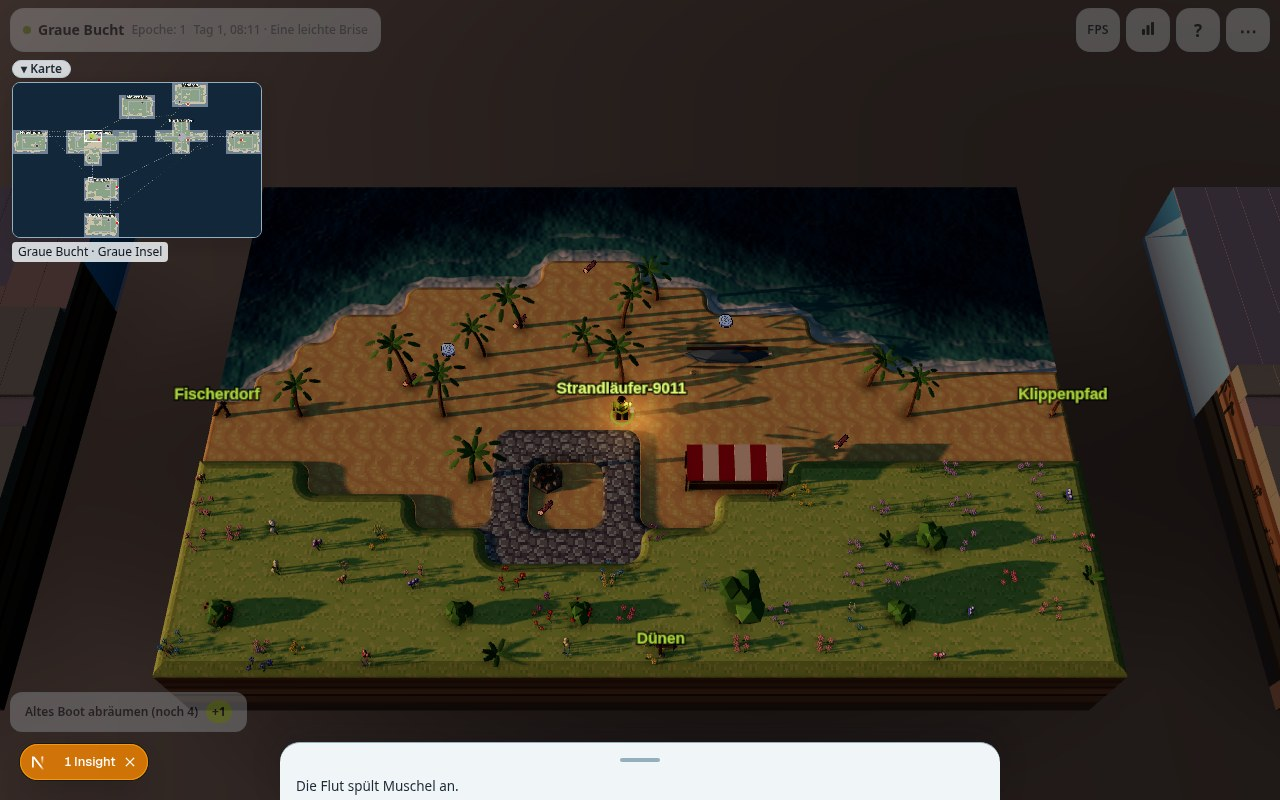
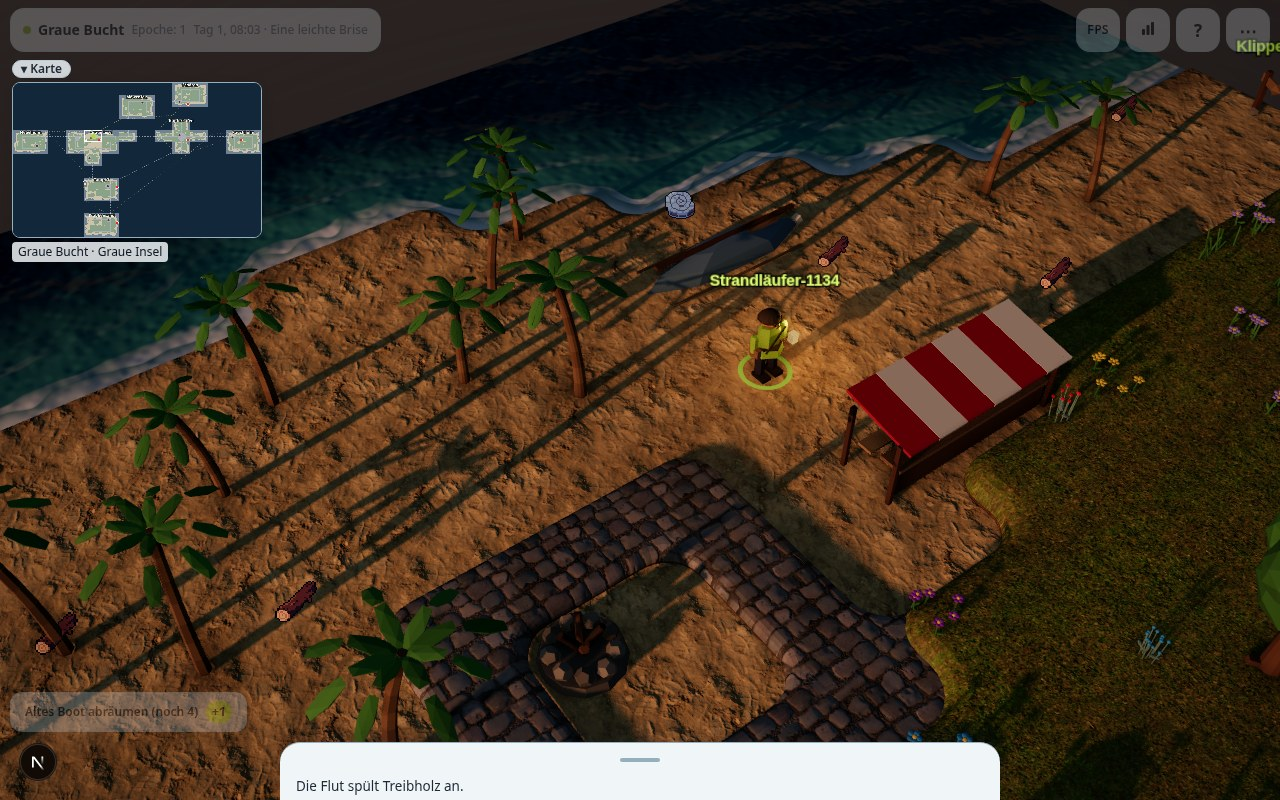
spaces-mmo, 3D view version 3, the ground (phase 3, docs/3D-V3/README.md): the terraces of sand, grass, paving, a building's floor and walls carry photographed surfaces (colour, normals, occlusion with roughness) instead of the tile art (client/ground3d.ts); the wall under a terrace's edge is rock t

diff --git a/spaces-mmo/client/ground3d.ts b/spaces-mmo/client/ground3d.ts
@@ -1,0 +1,96 @@
+// The ground's materials in the 3D view (3D v3, docs/3D-V3/README.md): instead of the tile art, photographed surfaces
+// (colour, normals, and occlusion with roughness: public/materials/<name>/, CC0, worlds/leuchtfeuer/assets/CREDITS.md)
+// on the terraces of each tile kind. Sand is wet and dark where the water is near, and every surface varies a little
+// over the room so the repeat of its picture does not show. A tile kind without a material here keeps the tile art, and
+// until the pictures have loaded (or where the page is served without them) a surface shows its plain colour.
+// Visual only.
+import { SHORE_REACH, shoreTexture } from "./water3d.ts";
+import type { TerraceLook } from "./terraces3d.ts";
+
+type T = typeof import("three");
+type Texture = import("three").Texture;
+
+/** The material of each tile kind: its folder, how many cells one picture covers, a tint (and a gain on it, where the
+ *  photograph is darker than the game's ground), and whether it gets wet near the water. */
+type Spec = { name: string; cells: number; tint: number; gain?: number; wet?: boolean };
+export const GROUND: Record<string, Spec> = {
+	".": { name: "sand", cells: 2, tint: 0xfff4de, gain: 1.3, wet: true },
+	",": { name: "grass", cells: 2.5, tint: 0xd0f59a, gain: 1.15 },
+	":": { name: "paving", cells: 2, tint: 0xe6e8ee },
+	"_": { name: "planks", cells: 2, tint: 0xf2dcc0 },
+	"#": { name: "plaster", cells: 1.5, tint: 0xf4ecda },
+};
+/** The earth of a terrace's wall, below the rounded edge. */
+const EARTH: Spec = { name: "rock", cells: 2, tint: 0xb89a78 };
+
+type Maps = { color: Texture; normal: Texture; arm: Texture };
+const loading = new Map<string, Promise<Maps | null>>();
+/** The three pictures of a material, loaded once and shared between rooms; null where they are not served. */
+function maps(t: T, name: string, cells: number, anisotropy: number): Promise<Maps | null> {
+	const id = `${name}@${cells}`;
+	let p = loading.get(id);
+	if (!p) {
+		const loader = new t.TextureLoader();
+		const one = (file: string, srgb: boolean) => loader.loadAsync(`/materials/${name}/${file}.jpg`).then((texture) => {
+			texture.wrapS = texture.wrapT = t.RepeatWrapping; texture.repeat.set(1 / cells, 1 / cells); texture.anisotropy = anisotropy;
+			if (srgb) texture.colorSpace = t.SRGBColorSpace;
+			texture.userData.shared = true;
+			return texture;
+		});
+		p = Promise.all([one("color", true), one("normal", false), one("arm", false)]).then(([color, normal, arm]) => ({ color, normal, arm }), () => null);
+		loading.set(id, p);
+	}
+	return p;
+}
+
+const HEAD = /* glsl */ `
+uniform sampler2D uWet;
+uniform vec2 uRoom;
+varying vec3 vGroundPos;
+float groundHash( vec2 p ) { vec3 q = fract( vec3( p.xyx ) * 0.1031 ); q += dot( q, q.yzx + 33.33 ); return fract( ( q.x + q.y ) * q.z ); }
+float groundNoise( vec2 p ) {
+	vec2 i = floor( p ), f = fract( p ), u = f * f * ( 3.0 - 2.0 * f );
+	return mix( mix( groundHash( i ), groundHash( i + vec2( 1.0, 0.0 ) ), u.x ), mix( groundHash( i + vec2( 0.0, 1.0 ) ), groundHash( i + vec2( 1.0, 1.0 ) ), u.x ), u.y );
+}`;
+const COLOUR = (wet: boolean) => /* glsl */ `
+	diffuseColor.rgb *= 0.86 + 0.28 * ( 0.6 * groundNoise( vGroundPos.xz * 0.37 ) + 0.4 * groundNoise( vGroundPos.xz * 1.3 + 7.0 ) );
+	float groundWet = ${wet ? `smoothstep( 1.3, 0.55, texture2D( uWet, vGroundPos.xz / uRoom + 0.5 ).r * ${SHORE_REACH.toFixed(1)} + ( groundNoise( vGroundPos.xz * 2.4 ) - 0.5 ) * 0.35 )` : "0.0"};
+	diffuseColor.rgb *= mix( 1.0, 0.58, groundWet );`;
+
+/** The looks of a room's tile kinds: `look(key, plain)` gives a kind's three materials (top, rounded edge, wall), or
+ *  null for a kind without a material here. `plain` is the colour it shows until its pictures are there. The looks own
+ *  one small texture (how near the water is); `dispose` on any of the materials' userData frees it. */
+export function groundLooks(t: T, ground: readonly string[], water: (key: string) => boolean, anisotropy: number): (key: string, plain: number) => TerraceLook | null {
+	const h = ground.length, w = ground[0]?.length ?? 0;
+	// for every land cell how far the water is: the water's own shore texture with land and water swapped
+	const near = shoreTexture(t, ground, (key) => !water(key));
+	const uniforms = { uWet: { value: near }, uRoom: { value: new t.Vector2(Math.max(1, w), Math.max(1, h)) } };
+	const make = (spec: Spec, plain: number, shade: number) => {
+		const material = new t.MeshStandardMaterial({ color: new t.Color(plain).multiplyScalar(shade), roughness: 0.95, metalness: 0 });
+		const wet = !!spec.wet;
+		material.onBeforeCompile = (shader) => {
+			Object.assign(shader.uniforms, uniforms);
+			shader.vertexShader = shader.vertexShader.replace("#include <common>", "#include <common>\nvarying vec3 vGroundPos;")
+				.replace("#include <begin_vertex>", "#include <begin_vertex>\n\tvGroundPos = ( modelMatrix * vec4( transformed, 1.0 ) ).xyz;");
+			shader.fragmentShader = shader.fragmentShader.replace("#include <common>", `#include <common>\n${HEAD}`)
+				.replace("#include <color_fragment>", `#include <color_fragment>\n${COLOUR(wet)}`)
+				.replace("#include <roughnessmap_fragment>", "#include <roughnessmap_fragment>\n\troughnessFactor = mix( roughnessFactor, 0.28, groundWet );");
+		};
+		material.customProgramCacheKey = () => `ground3d:${wet}`;
+		material.userData.dispose = () => near.dispose();
+		void maps(t, spec.name, spec.cells, anisotropy).then((m) => {
+			if (!m) return;
+			material.map = m.color; material.normalMap = m.normal; material.roughnessMap = m.arm; material.aoMap = m.arm;
+			material.roughness = 1; material.color.setHex(spec.tint).multiplyScalar(shade * (spec.gain ?? 1)); material.needsUpdate = true;
+		});
+		return material;
+	};
+	const made = new Map<string, TerraceLook>(), wall = make(EARTH, 0x6b5236, 1);
+	return (key, plain) => {
+		const spec = GROUND[key];
+		if (!spec) return null;
+		let look = made.get(key);
+		if (!look) { look = { top: make(spec, plain, 1), flank: make(spec, plain, 0.88), wall }; made.set(key, look); }
+		return look;
+	};
+}

diff --git a/spaces-mmo/client/MapView3D.tsx b/spaces-mmo/client/MapView3D.tsx
@@ -18,6 +18,7 @@ import { railPoints, sleeperSpots, stepsAt } from "./trackShape.ts";
 import { closeBlur, frameSummary } from "./closeup3d.ts";
 import { POST } from "./post3d.ts";
 import { setWaterTime, waterMaterial } from "./water3d.ts";
+import { GROUND, groundLooks } from "./ground3d.ts";
 import { START_VIEW } from "./viewPreferences.ts";
 import { atModelLevel, updateModelDetails, type ModelLevel } from "./modelDetail3d.ts";
 import { stableHash, tile3d } from "./terrain3d.ts";
@@ -289,8 +290,11 @@ function buildTerrain(s: Scene3D, looks: Map<string, TileLook>): import("three")
 	const group = new t.Group(); group.userData.owned = true;
 	const kind = (key: string) => tile3d(key, !!world.tiles[key]?.walk);
 	const earth = new t.MeshStandardMaterial({ color: 0x6b5236, roughness: 1 });
+	// photographed surfaces where the kind has one (ground3d.ts), else the tile art as before
+	const pbr = groundLooks(t, room.ground, (key) => kind(key).water, s.renderer.capabilities.getMaxAnisotropy());
 	const lookOf = (key: string): TerraceLook => {
-		const visual = kind(key), look = looks.get(key);
+		const visual = kind(key), look = looks.get(key), real = pbr(key, visual.color);
+		if (real) return real;
 		const top = new t.MeshStandardMaterial({ color: look ? 0xffffff : visual.color, map: look?.frames[0] ?? null, roughness: 0.95 });
 		// the rounded edge carries the tile art on, a little darker as it turns away from the sky
 		const flank = new t.MeshStandardMaterial({ color: look ? 0xd4d4d4 : new t.Color(visual.color).multiplyScalar(0.85), map: look?.frames[0] ?? null, roughness: 0.95 });
@@ -447,6 +451,8 @@ function lantern(s: Scene3D, e: Entry, time: number): void {
 
 function pavingDetail(s: Scene3D): void {
 	if (!s.ground) return;
+	// the photographed paving (ground3d.ts) has its stones in its own picture and normals: no stones of geometry on it
+	if (GROUND[":"]) { if (s.paving) s.paving.visible = false; return; }
 	if (s.zoom < 2) { if (s.paving) s.paving.visible = false; return; }
 	// every paved cell of the room (at most a few hundred: one instanced mesh), built once per room and ground; before,
 	// only the cells round the middle of the view had stones and the rest of the paving stayed smooth

diff --git a/spaces-mmo/client/water3d.ts b/spaces-mmo/client/water3d.ts
@@ -66,13 +66,19 @@ const NORMAL = /* glsl */ `
 		normal = normalize( ( viewMatrix * vec4( up, 0.0 ) ).xyz );
 	}`;
 
+/** `shoreDistances` as a texture, one texel a cell: 0 where `water` says no, 1 at SHORE_REACH cells from there. */
+export function shoreTexture(t: T, ground: readonly string[], water: (key: string) => boolean): import("three").DataTexture {
+	const h = ground.length, w = ground[0]?.length ?? 0, distances = shoreDistances(ground, water), data = new Uint8Array(w * h);
+	for (let i = 0; i < data.length; i++) data[i] = Math.round((distances[i]! / SHORE_REACH) * 255);
+	const texture = new t.DataTexture(data, Math.max(1, w), Math.max(1, h), t.RedFormat, t.UnsignedByteType);
+	texture.magFilter = texture.minFilter = t.LinearFilter; texture.needsUpdate = true;
+	return texture;
+}
+
 /** The material of a room's water surface (a face that looks up): `ground` gives the shore. It owns a small texture;
  *  `material.userData.dispose` frees it. */
 export function waterMaterial(t: T, ground: readonly string[], water: (key: string) => boolean): import("three").MeshStandardMaterial {
-	const h = ground.length, w = ground[0]?.length ?? 0, distances = shoreDistances(ground, water), data = new Uint8Array(w * h);
-	for (let i = 0; i < data.length; i++) data[i] = Math.round((distances[i]! / SHORE_REACH) * 255);
-	const shore = new t.DataTexture(data, w, h, t.RedFormat, t.UnsignedByteType);
-	shore.magFilter = shore.minFilter = t.LinearFilter; shore.needsUpdate = true;
+	const h = ground.length, w = ground[0]?.length ?? 0, shore = shoreTexture(t, ground, water);
 	const material = new t.MeshStandardMaterial({ color: 0xffffff, roughness: 0.07, metalness: 0, envMapIntensity: 1.25 });
 	const uniforms = { uWaterTime: time, uShore: { value: shore }, uRoom: { value: new t.Vector2(w, h) }, uShallow: { value: new t.Color(0x4f9a94) }, uDeep: { value: new t.Color(0x0d3350) } };
 	material.onBeforeCompile = (shader) => {

diff --git a/spaces-mmo/tests/terrain3d.test.ts b/spaces-mmo/tests/terrain3d.test.ts
@@ -109,6 +109,22 @@ test("the water knows how far the shore is: 0 on land, a cell more with every st
 	assert.deepEqual([...shoreDistances([], water)], []);
 });
 
+test("every ground material of the 3D view has its three pictures and its line in the credits", async () => {
+	const { existsSync, readFileSync, statSync } = await import("node:fs");
+	const { GROUND } = await import("../client/ground3d.ts");
+	const root = new URL("../", import.meta.url).pathname, credits = readFileSync(`${root}worlds/leuchtfeuer/assets/CREDITS.md`, "utf8");
+	const names = new Set([...Object.values(GROUND).map((g) => g.name), "rock"]);
+	assert.deepEqual(Object.keys(GROUND).sort(), ["#", ",", ".", ":", "_"].sort());
+	for (const name of names) {
+		for (const file of ["color", "normal", "arm"]) {
+			const path = `${root}public/materials/${name}/${file}.jpg`;
+			assert.ok(existsSync(path), `${path} is missing`);
+			assert.ok(statSync(path).size < 700_000, `${path} is larger than 700 kB`);
+		}
+		assert.ok(credits.includes(`\`public/materials/${name}/\``), `no credit for ${name}`);
+	}
+});
+
 test("near barrel geometry is cached separately, with more detail and the same footprint", async () => {
 	const t = await import("three"), { barrel } = await import("../client/props3d.ts");
 	const far = barrel(t), near = barrel(t, true);

diff --git a/spaces-mmo/client/App.tsx b/spaces-mmo/client/App.tsx
@@ -194,7 +194,7 @@ function About() {
 		<p className="about muted">
 			Eine Welt auf <a href="https://spaces.eibrain.org" target="_blank" rel="noreferrer">phi-spaces</a>. Grafiken: Intersect-Assets von
 			PixelFox, Zetasis, George und Murdoc, CC BY 4.0; Gegenstände: Shikashi's Fantasy Icons von Matt Firth (shikashipx) nach
-			game-icons.net, CC BY 4.0, und 7Soul1, CC0 (<a href="/assets/leuchtfeuer/CREDITS.md" target="_blank" rel="noreferrer">Nachweise</a>).
+			game-icons.net, CC BY 4.0, und 7Soul1, CC0; Oberflächen der 3D-Ansicht: Poly Haven, CC0 (<a href="/assets/leuchtfeuer/CREDITS.md" target="_blank" rel="noreferrer">Nachweise</a>).
 		</p>
 	);
 }

diff --git a/spaces-mmo/docs/3D-V3/README.md b/spaces-mmo/docs/3D-V3/README.md
@@ -13,7 +13,8 @@ everything here is the client's view of the same room data: the grid, walkabilit
 - **Assets.** Textures and skies from CC0 libraries; buildings and figures as one consistent set. Licences go into the
   world's `assets/CREDITS.md`.
 - **One quality level.** No reduced tier for phones; the 2D map stays the fallback for a device without WebGL 2.
-- **Download size.** A budget per room, loaded per room (to be set in phase 2).
+- **Download size.** A budget per room, loaded per room (to be set in phase 2). The ground's six surfaces are 4.8 MB together, loaded once.
+- **Models.** Built in this project (the user's decision, 2026-11-18), not bought or commissioned.
 
 ## Phases
 
@@ -21,7 +22,7 @@ everything here is the client's view of the same room data: the grid, walkabilit
 | --- | --- | --- |
 | 1 Light and picture | sky and sun from the world's clock, the sky's light as an environment map, a filmic tone curve, shadows that turn with the sun, ambient occlusion, bloom, the close-up blur as a pass | done, except rain and wet surfaces |
 | 2 Asset pipeline | glTF models with Meshopt, KTX2 textures, a catalogue from today's builder keys to model files with three levels of detail, the procedural builder as the fallback | open |
-| 3 Terrain and water | a smoothed height field instead of hard terraces, PBR ground materials blended at the seams, rock on the block's sides; the water's surface | water done, the rest open |
+| 3 Terrain and water | a smoothed height field instead of hard terraces, PBR ground materials blended at the seams, rock on the block's sides; the water's surface | water and ground materials done; the height field and the block's sides open |
 | 4 Vegetation | tree and bush models with leaf cards, wind, translucent leaves, instanced grass, crops per stage | open |
 | 5 Buildings and things | models in the order hut, site, ruin, later epochs, scenery; a small shared set of materials; lit interiors | open |
 | 6 Figures and animals | rigged figures with skeletal animation, the chosen look (`shared/appearance.ts`) as parts and colour masks | open |
@@ -59,8 +60,23 @@ distance to the nearest land (a chamfer distance, at most 4 cells), kept as a sm
 a shallow and a deep colour by it, puts a ragged band of foam at the land and lines of foam that run in, moves its
 normal with a few sine waves and noise, and mirrors the sky.
 
+**Ground (`client/ground3d.ts`, `public/materials/`).** The terraces of sand, grass, paving, a building's floor and its
+walls carry photographed surfaces (colour, normals, and occlusion with roughness; Poly Haven, CC0, credited in
+`worlds/leuchtfeuer/assets/CREDITS.md`) instead of the tile art; the wall under a terrace's edge is rock tinted as earth.
+One picture covers 1.5 to 2.5 cells, and a slow noise over the room varies its brightness so the repeat does not show.
+Sand within about a cell of the water is dark and smooth (the water's shore texture with land and water swapped). A
+tile kind without a surface keeps the tile art; until the pictures are loaded, or where the page is served without them
+(`SPACES_MMO_NO_NEXT`), a surface shows its plain colour. The close-up's cobbles of geometry (v2) are off on
+photographed paving. The pictures are served by the page (`/materials/…`), not by the world's asset route, which serves
+PNG only.
+
 Dev probes on the canvas (not in a production build): `probeHour(hour)`, `probeFog(level)`, `probeLight()`,
 `probeTune(light, post)`.
+
+## Open in phase 3
+
+- The smoothed height field: the ground still stands on v2's rounded terraces.
+- Rock on the block's sides (they keep the strata bands).
 
 ## Open in phase 1
 

diff --git a/spaces-mmo/docs/architektur.en.md b/spaces-mmo/docs/architektur.en.md
@@ -294,7 +294,7 @@ instanced tile cuboids on their block, the low-poly models below, name billboard
 shader, measured phone budgets (frame times on a real phone) and WFC-generated rooms are not yet an implemented 3D
 acceptance.
 
-**Light, picture and water (v3, `docs/3D-V3/README.md`, from 2026-11-18):** the sky is a physical one whose sun and moon cross it with the world's clock (`skyAt`, `shadowLightAt` in `camera3d.ts`, `client/atmosphere3d.ts`), its light reaches every surface as an environment map, the shadow map is 4096² on every device, the picture passes ambient occlusion, bloom and a filmic tone curve at every zoom (`client/post3d.ts`), and the water is a surface with ripples, depth colour and foam at the shore instead of the tile art (`client/water3d.ts`). Where the v2 text below says otherwise (the dusk gradient, the shadow map's size, the hemisphere light, water from autotile frames, postprocessing only close up), v3 holds.
+**Light, picture and water (v3, `docs/3D-V3/README.md`, from 2026-11-18):** the sky is a physical one whose sun and moon cross it with the world's clock (`skyAt`, `shadowLightAt` in `camera3d.ts`, `client/atmosphere3d.ts`), its light reaches every surface as an environment map, the shadow map is 4096² on every device, the picture passes ambient occlusion, bloom and a filmic tone curve at every zoom (`client/post3d.ts`), and the water is a surface with ripples, depth colour and foam at the shore instead of the tile art (`client/water3d.ts`), and the ground carries photographed surfaces instead of the tile art (`client/ground3d.ts`, `public/materials/`). Where the v2 text below says otherwise (the dusk gradient, the shadow map's size, the hemisphere light, water from autotile frames, postprocessing only close up), v3 holds.
 
 **Zoom ladder and diorama (v2, `docs/3D-V2/`):** One slider from the island to a face (`client/camera3d.ts`: zoom 0.2
 to 5). The camera's elevation is a function of the zoom (60° on the island, 52° on the approach, 44° at zoom 1, 22° up

diff --git a/spaces-mmo/worlds/leuchtfeuer/assets/CREDITS.md b/spaces-mmo/worlds/leuchtfeuer/assets/CREDITS.md
@@ -110,3 +110,21 @@ way, by the script `items-src/trees.py` (same license as this project).
 What the workshop makes of planks (a barrel, a fruit crate, a table and shutters: `items/fass.png`,
 `items/obstkiste.png`, `items/tisch.png`, `items/fensterlaeden.png`) were drawn the same way, by the script
 `items-src/planks.py` (same license as this project).
+
+## Surfaces of the 3D view (`public/materials/`)
+
+The photographed surfaces of the 3D view's ground (`client/ground3d.ts`) come from [Poly Haven](https://polyhaven.com)
+and are licensed [CC0 1.0](https://creativecommons.org/publicdomain/zero/1.0/) (no attribution required; given here all
+the same). Each folder holds the 1k JPEG maps of one asset, downloaded 2026-11-18 and recompressed (metadata removed,
+quality 80 to 88): `color.jpg` (the asset's "Diffuse"), `normal.jpg` ("nor_gl") and `arm.jpg` ("arm": ambient
+occlusion, roughness and metalness in the red, green and blue channels). They are not in this directory, because the
+page serves them itself (`/materials/<name>/…`) and they do not belong to one world.
+
+| Folder | Poly Haven asset | Authors | Used for |
+| --- | --- | --- | --- |
+| `public/materials/sand/` | [`sand_01`](https://polyhaven.com/a/sand_01) | Rob Tuytel | sand (`.`) |
+| `public/materials/grass/` | [`leafy_grass`](https://polyhaven.com/a/leafy_grass) | Charlotte Baglioni | grass (`,`) |
+| `public/materials/paving/` | [`cobblestone_floor_08`](https://polyhaven.com/a/cobblestone_floor_08) | Rob Tuytel | paving (`:`) |
+| `public/materials/rock/` | [`rock_face_03`](https://polyhaven.com/a/rock_face_03) | Dario Barresi, Rico Cilliers | the earth of a terrace's wall |
+| `public/materials/planks/` | [`wood_planks`](https://polyhaven.com/a/wood_planks) | Amal Kumar | a building's floor (`_`) |
+| `public/materials/plaster/` | [`white_rough_plaster`](https://polyhaven.com/a/white_rough_plaster) | Rob Tuytel | a building's walls (`#`) |
